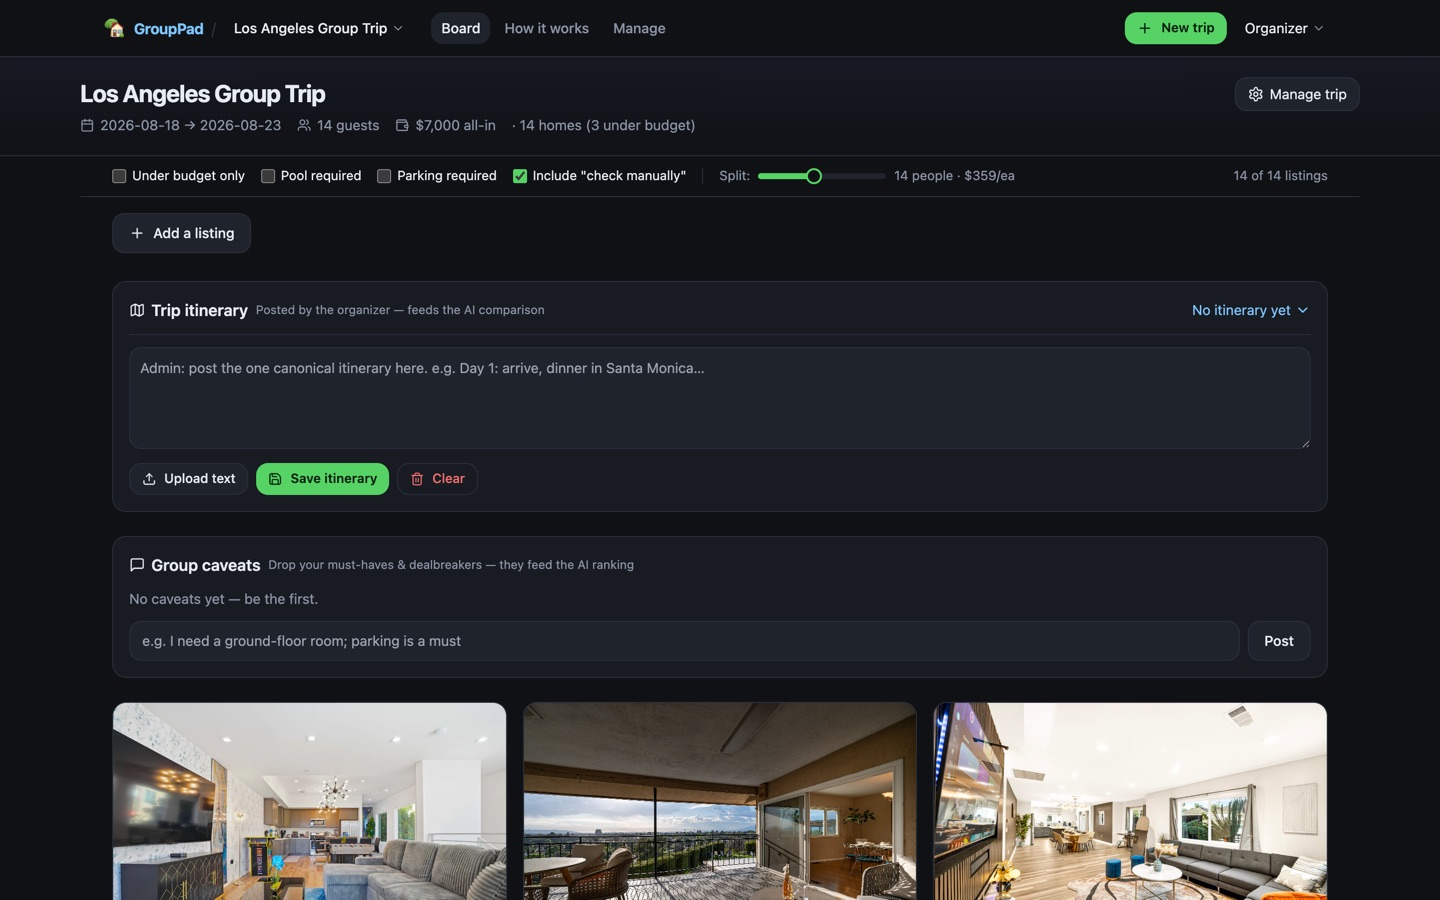
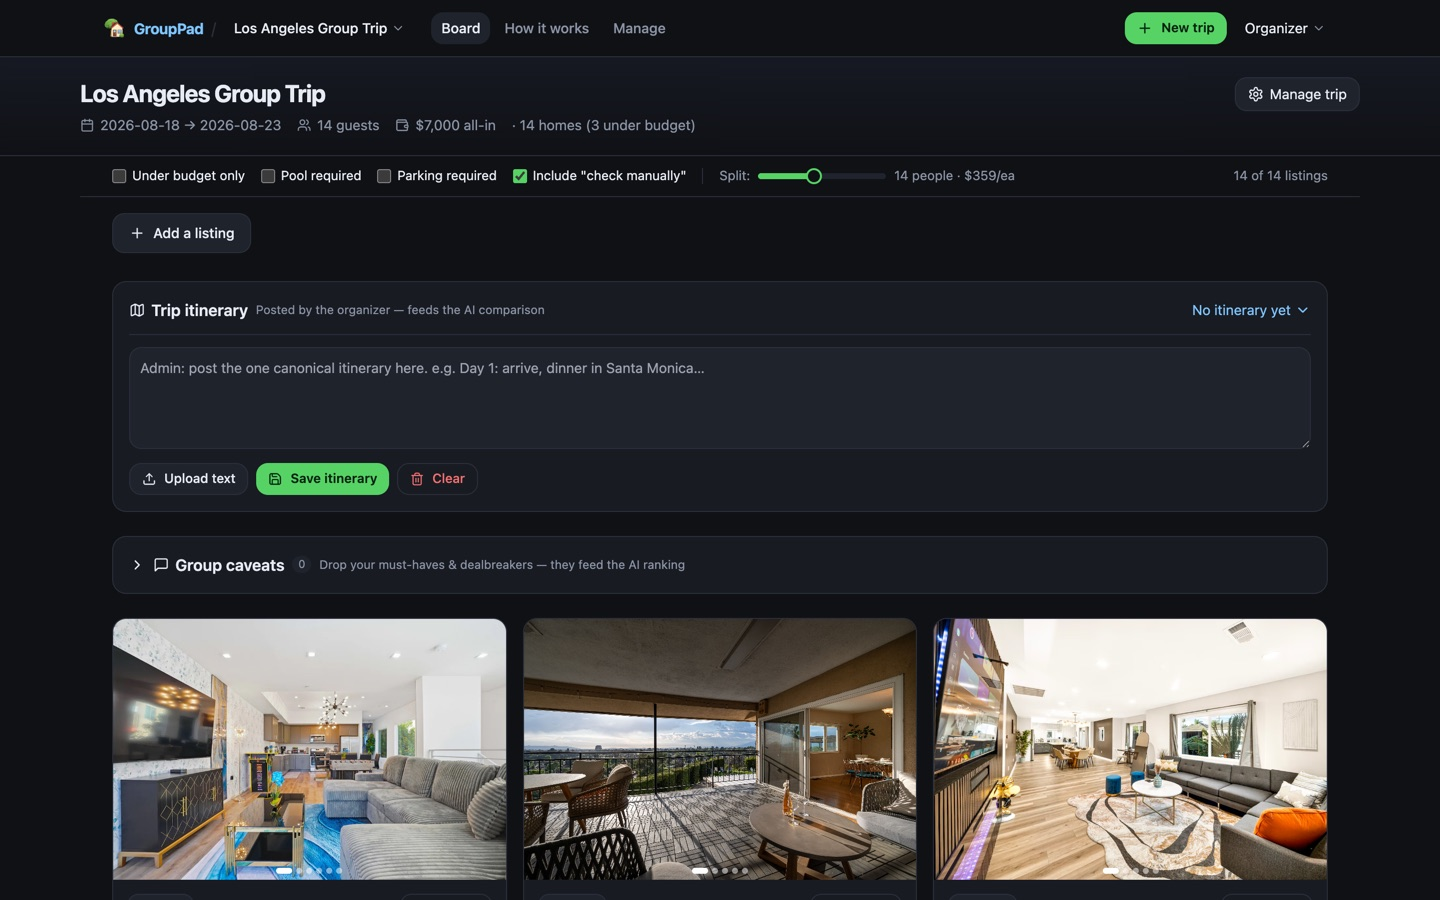
Docs: update DESIGN_REFERENCE + refresh screenshots for lucide/deep-link/collapse

Changed region(s): [[0.0625, 0.6222, 0.9375, 1.0]]

diff --git a/DESIGN_REFERENCE.md b/DESIGN_REFERENCE.md
@@ -82,11 +82,13 @@ Loaded via `TripGate` (loading / 404 / `?join=code` auto-join). Top → bottom:
 6. **Itinerary** — collapsible; organizer editor (textarea, upload .txt/.md, save, clear). Feeds AI compare.
 7. **Decision** — pinned ✅ official-pick banner **or** the ⭐ top-choice leaderboard (bars); organizer "Make official"/Unlock.
 8. **Shortlist** (net-likes ≥ 1) — **Compare with AI** panel (criteria, whole-shortlist analyze, 1v1 / compare-selected) + group insights (staleness banner) + the shortlisted cards.
-9. **Community Submissions** — member-added homes not yet liked.
-10. **Group caveats** — must-haves/dealbreakers chat (feeds AI ranking).
+9. **Community Submissions** — member-added homes not yet liked. *(collapsible, default collapsed)*
+10. **Group caveats** — must-haves/dealbreakers chat (feeds AI ranking). *(collapsible, default collapsed)*
 11. **Main grid** — the curated/searched homes (filtered).
-12. **Live Listings** (LA only) — auto-scraped, "refreshed every 3 days".
+12. **Live Listings** (LA only) — auto-scraped, "refreshed every 3 days". *(collapsible, default collapsed)*
 Floating: **CompareDock** (when cards ticked) + **ComparisonModal**.
+Sections #9/#10/#12 (and the itinerary editor) collapse via `useCollapsed`, persisted per
+trip in localStorage — an interim density pass ahead of the full board redesign.
 
 ### 3.5 Manage — `/#/t/:tripId/manage` organizer only · ![manage](docs/screenshots/10-manage.jpg)
 Invite link (+ copy), group pulse stats (members/homes/votes/top-picks), **Danger zone → Delete trip**.
@@ -114,7 +116,11 @@ replayable via "30-second tour".
 ### 4.3 DetailModal · ![detail](docs/screenshots/08-detail-modal.jpg)
 Opens on any card tap. Photo gallery + thumbnails, specs, **the 3 distance+time rows**
 (downtown / airport / attraction with full place names), price breakdown, per-person
-split, amenities, an **embedded map**, and the vote / ⭐ top-choice / 📌 official actions.
+split, amenities, an **embedded map**, and the vote / top-choice / official actions.
+**Deep-linkable:** state lives in the URL — `/#/t/:tripId/board?listing=<id>`. Opening
+a card pushes the param (browser Back closes the modal, board scroll preserved under the
+overlay); a pasted link opens it (works for read-only visitors); a **Copy link** button
+shares it.
 
 ### 4.4 ComparisonModal · ![comparison](docs/screenshots/09-comparison-vs.jpg)
 Triggered by the CompareDock or the shortlist panel. **1v1** shows the two picked homes
@@ -131,10 +137,11 @@ Floating bottom-center pill on the board when ≥1 card is ticked "compare": cou
 
 ## 5. The Card component (reused in 4 grids)
 `Card.tsx`: photo carousel · rank/community/live + budget badges · name · source + area ·
-**distance+time pills** (`📍 9mi·19m  ✈ 5mi·7m  🎡 19mi·38m`; falls back to "X mi to
-downtown") · specs (bd/ba/sleeps) · amenity chips · reviews · price "est all-in" +
-per-person split · note · compare checkbox · "View on <source>" · 👍/👎 vote bar ·
-⭐ top-choice · organizer "Make official" + Delete.
+**distance+time pills** (lucide MapPin / Plane / FerrisWheel by `distance.kind` + "mi · min";
+falls back to "X mi to downtown") · specs (bd/ba/sleeps) · amenity chips · reviews · price
+"est all-in" + per-person split · note · compare checkbox · "View on <source>" · ThumbsUp/
+ThumbsDown vote bar · Star top-choice · organizer "Make official" (Pin) + Delete.
+**Icons are lucide-react** across the core interactive surfaces (no structural emoji).
 
 ---
 
@@ -149,6 +156,7 @@ file so design work can jump straight to code.
 | `routing/TripGate.tsx` | Loads a trip from the URL, join-by-link | §3.4, §6A |
 | `store/AppContext.tsx` | The single state store + all actions | §1 |
 | `hooks/useCompare.ts` | AI-compare controller (panel + 1v1/selected) | §3.4 #8, §4.4 |
+| `hooks/useCollapsed.ts` | Per-trip persisted collapse state for board sections | §3.4 #9/#10/#12 |
 | **Pages (`views/`)** | | |
 | `LandingView.tsx` | Signed-out marketing page | §3.1 |
 | `TripsView.tsx` | "Your trips" dashboard | §3.2 |
@@ -265,8 +273,8 @@ submitted_by?/submitted_at?(submissions), last_seen?/enriched?(pipeline)`.
 
 ## 10. Redesign priorities (carry into the next phase)
 
-1. **Board density** — 12 stacked sections; the biggest win is clearer hierarchy / progressive disclosure (collapse advanced sections, tabs, or a sidebar).
-2. **Emoji as structural icons** (📍✈🎡, badges) — swap chrome icons to an SVG set; keep emoji only where intentionally playful (the ui-ux-pro-max skill flags this).
+1. **Board density** — 12 stacked sections. Interim collapse on #9/#10/#12 done; the full win is a real hierarchy (tabs / sidebar / progressive disclosure).
+2. **Emoji → icons** — DONE on the core interactive surfaces (lucide-react across Card, modals, decision, shortlist, dock, toasts, nav). Still to convert in the redesign: the 🏡 **brand logo** (needs a real mark, not a generic icon), and the onboarding / help / landing **explanatory copy** + the super-admin AdminView meter.
 3. **Landing + Trips dashboard** are functional but plain — prime for a real brand, type scale, and color system.
 4. **Formalize the component system** — distance pills, budget/rank badges, cards, the VS layout → design tokens + a documented kit.
 5. **Mobile** — verify the sticky filter bar + dense cards on small screens.
